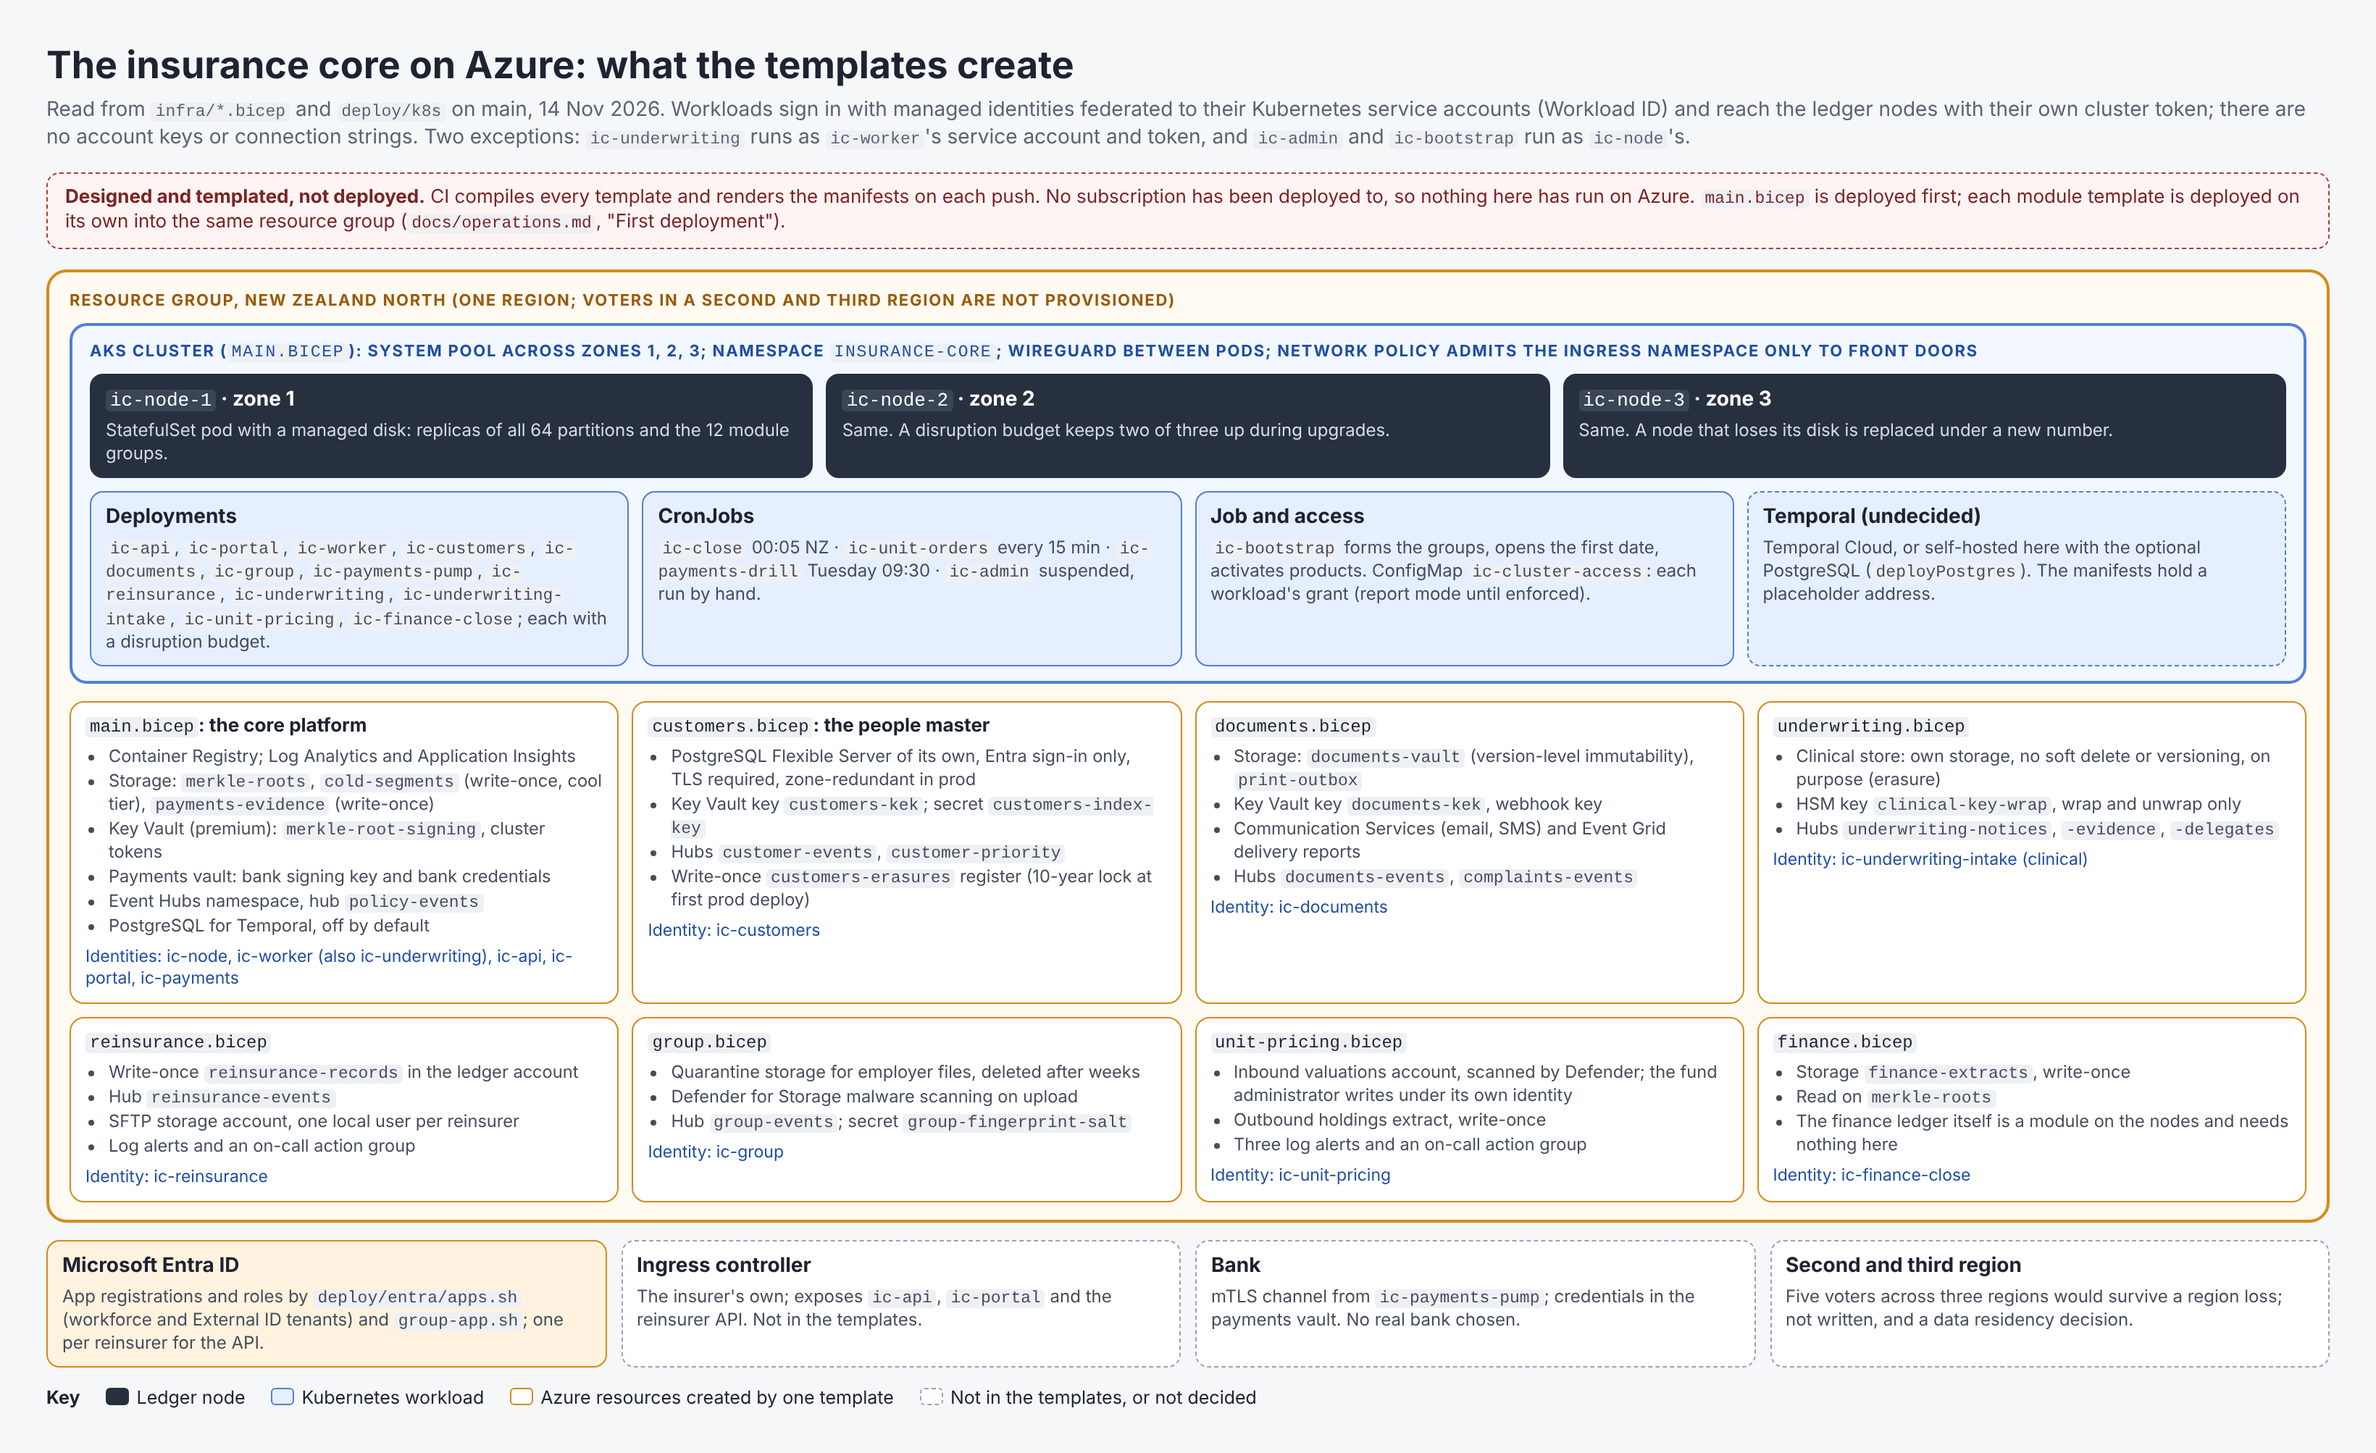
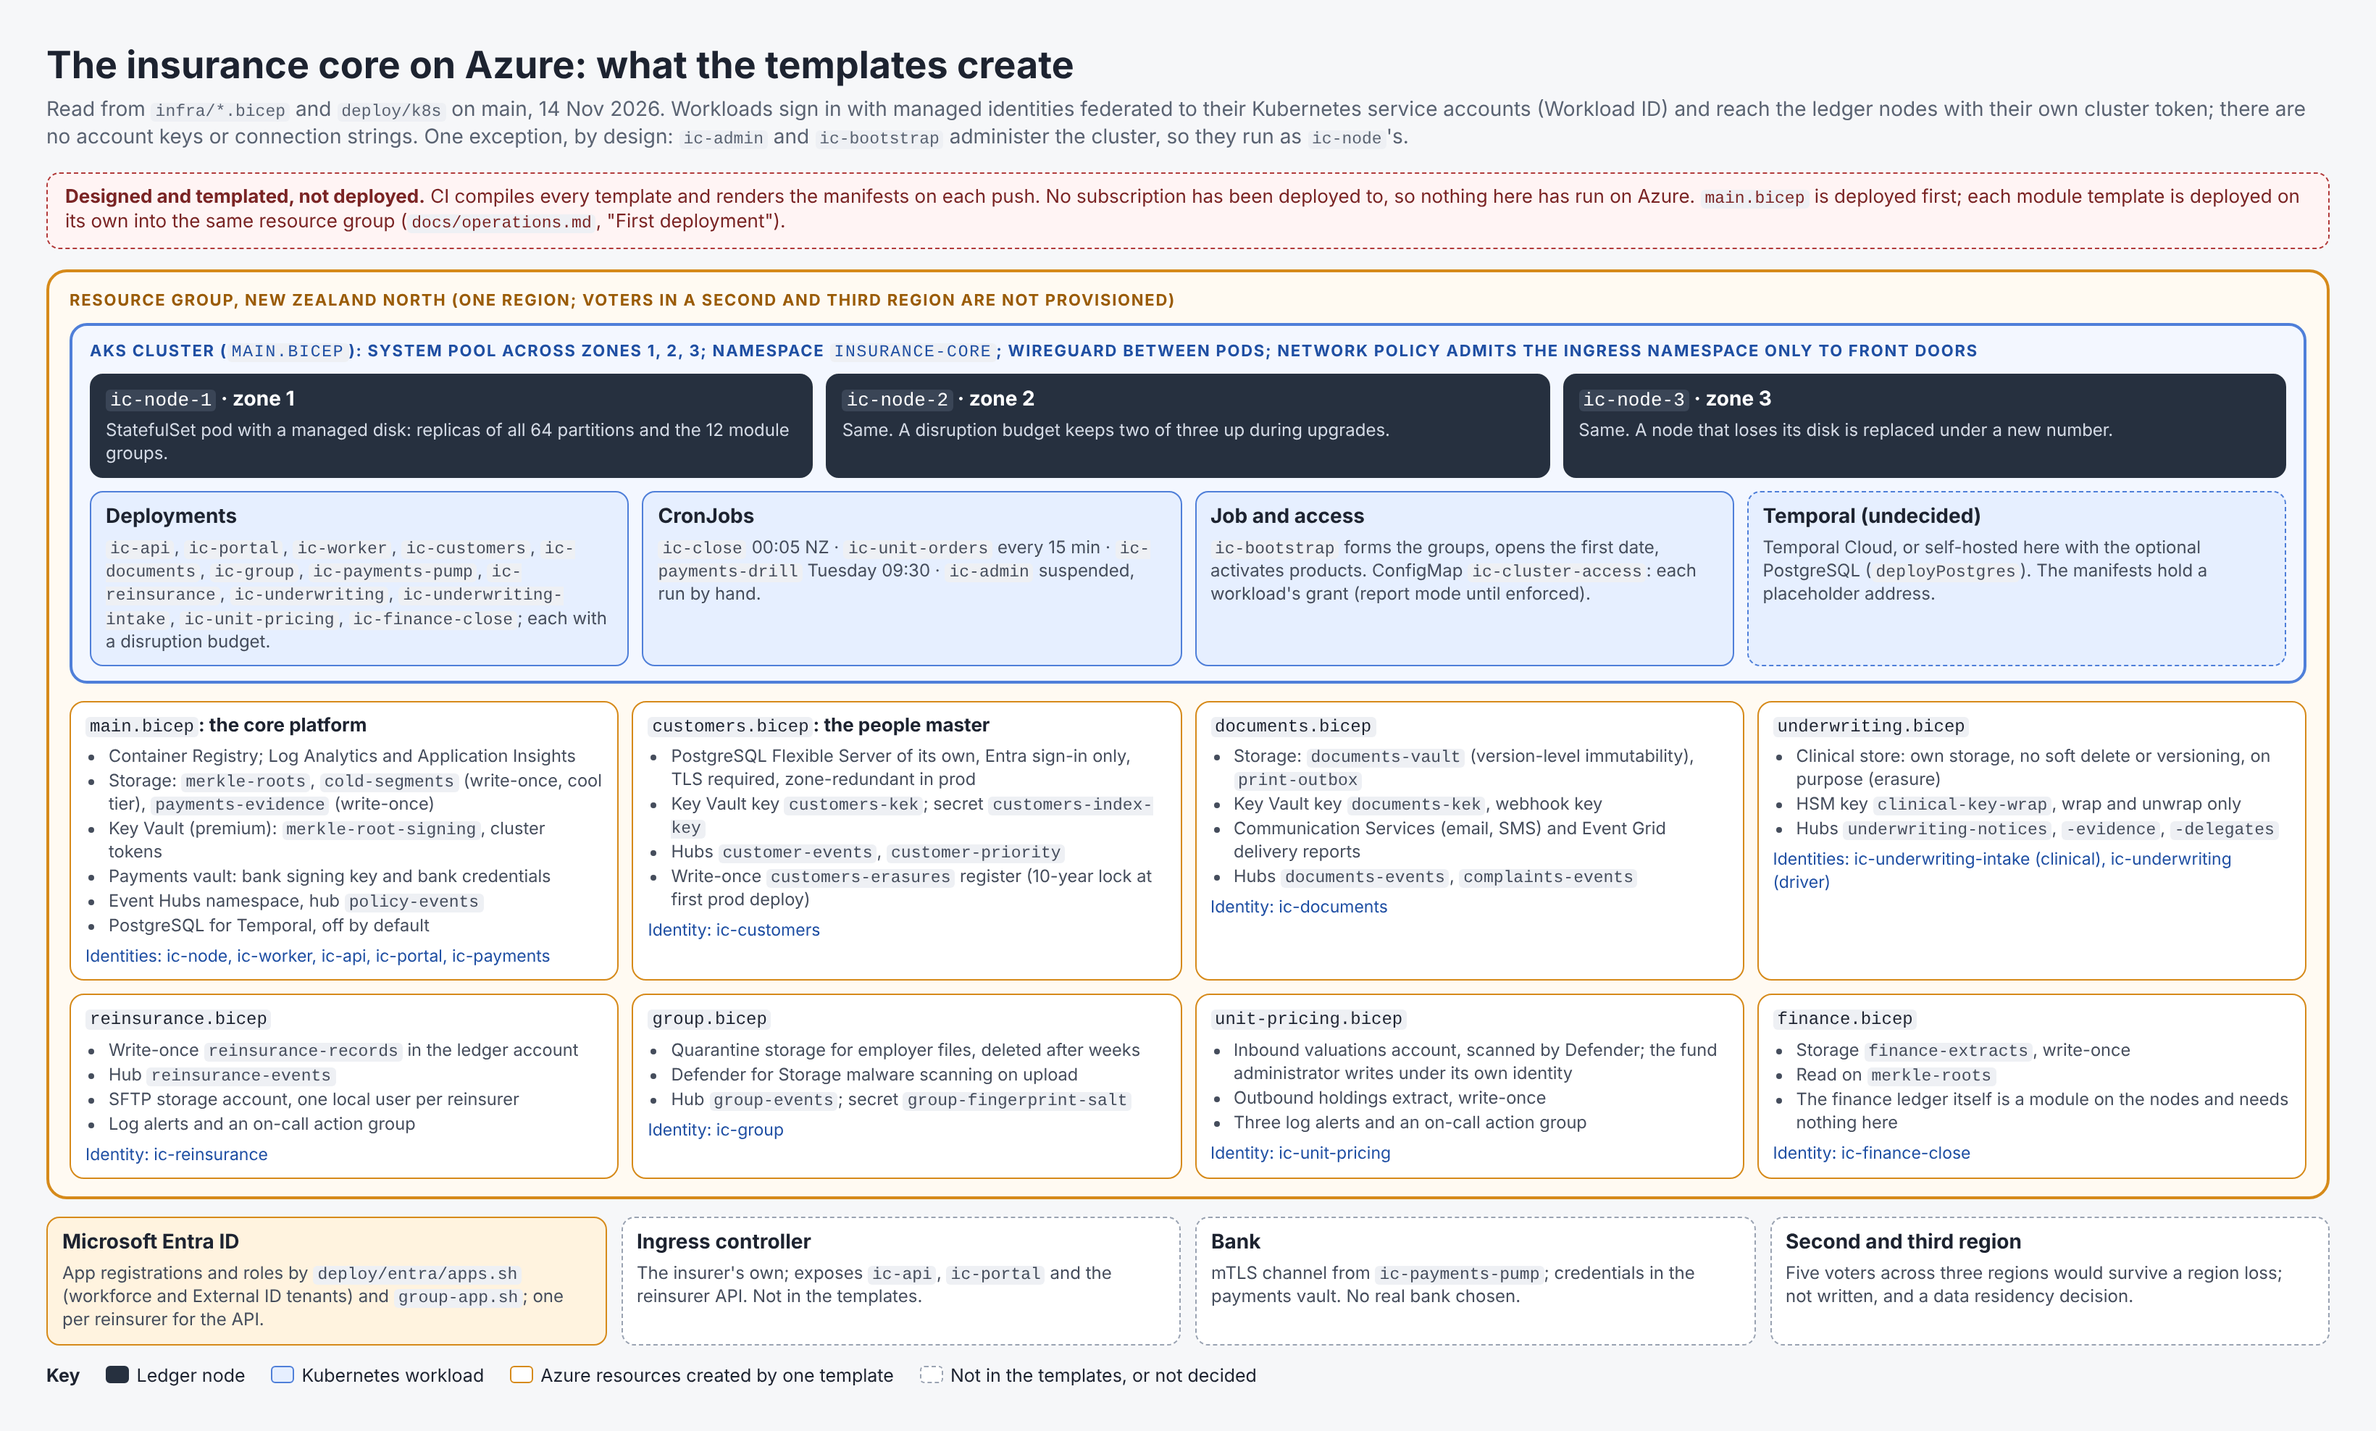
Underwriting driver: its own identity, cluster token and grant
The driver ran on ic-worker's service account and token, so the nodes held
its calls to the worker's grant and logged them under the worker's name.
It now has its own service account, managed identity (infra/underwriting.bicep,
federated to ic-underwriting), Key Vault secret cluster-token-ic-underwriting
readable by that identity alone, and grant. The Event Hubs send rights on
the underwriting hubs move from the worker's identity to it. The worker's
grant is trimmed to what ic-worker sends: end-of-day, leader, unit-orders.

A test fails the build if a token in deploy/k8s has no grant, a grant has
no token, or a pod mounts another workload's token.

Claude-Session: https://claude.ai/code/session_01X1STTeDAbWFpDPHGdVHVUC

Changed region(s): [[0.0, 0.0309, 0.9951, 0.957], [0.2799, 0.957, 0.311, 0.9879]]

diff --git a/docs/architecture/azure-deployment.html b/docs/architecture/azure-deployment.html
@@ -25,7 +25,7 @@ code{font:11.5px ui-monospace,Menlo,monospace;background:#eef0f4;padding:0 3px;b
 .zones{display:flex;gap:9px;margin-bottom:9px}
 </style></head><body><div class="page">
 <h1>The insurance core on Azure: what the templates create</h1>
-<p class="sub">Read from <code>infra/*.bicep</code> and <code>deploy/k8s</code> on main, 14 Nov 2026. Workloads sign in with managed identities federated to their Kubernetes service accounts (Workload ID) and reach the ledger nodes with their own cluster token; there are no account keys or connection strings. Two exceptions: <code>ic-underwriting</code> runs as <code>ic-worker</code>'s service account and token, and <code>ic-admin</code> and <code>ic-bootstrap</code> run as <code>ic-node</code>'s.</p>
+<p class="sub">Read from <code>infra/*.bicep</code> and <code>deploy/k8s</code> on main, 14 Nov 2026. Workloads sign in with managed identities federated to their Kubernetes service accounts (Workload ID) and reach the ledger nodes with their own cluster token; there are no account keys or connection strings. One exception, by design: <code>ic-admin</code> and <code>ic-bootstrap</code> administer the cluster, so they run as <code>ic-node</code>'s.</p>
 <div class="banner"><b>Designed and templated, not deployed.</b> CI compiles every template and renders the manifests on each push. No subscription has been deployed to, so nothing here has run on Azure. <code>main.bicep</code> is deployed first; each module template is deployed on its own into the same resource group (<code>docs/operations.md</code>, "First deployment").</div>
 
 <div class="rg"><div class="bl" style="color:#9a5b05">Resource group, New Zealand North (one region; voters in a second and third region are not provisioned)</div>
@@ -51,7 +51,7 @@ code{font:11.5px ui-monospace,Menlo,monospace;background:#eef0f4;padding:0 3px;b
 <li>Payments vault: bank signing key and bank credentials</li>
 <li>Event Hubs namespace, hub <code>policy-events</code></li>
 <li>PostgreSQL for Temporal, off by default</li></ul>
-<div class="who">Identities: ic-node, ic-worker (also ic-underwriting), ic-api, ic-portal, ic-payments</div></div>
+<div class="who">Identities: ic-node, ic-worker, ic-api, ic-portal, ic-payments</div></div>
 <div class="tpl"><h4><code>customers.bicep</code>: the people master</h4><ul>
 <li>PostgreSQL Flexible Server of its own, Entra sign-in only, TLS required, zone-redundant in prod</li>
 <li>Key Vault key <code>customers-kek</code>; secret <code>customers-index-key</code></li>
@@ -68,7 +68,7 @@ code{font:11.5px ui-monospace,Menlo,monospace;background:#eef0f4;padding:0 3px;b
 <li>Clinical store: own storage, no soft delete or versioning, on purpose (erasure)</li>
 <li>HSM key <code>clinical-key-wrap</code>, wrap and unwrap only</li>
 <li>Hubs <code>underwriting-notices</code>, <code>-evidence</code>, <code>-delegates</code></li></ul>
-<div class="who">Identity: ic-underwriting-intake (clinical)</div></div>
+<div class="who">Identities: ic-underwriting-intake (clinical), ic-underwriting (driver)</div></div>
 <div class="tpl"><h4><code>reinsurance.bicep</code></h4><ul>
 <li>Write-once <code>reinsurance-records</code> in the ledger account</li>
 <li>Hub <code>reinsurance-events</code></li>

diff --git a/crates/raft/tests/access.rs b/crates/raft/tests/access.rs
@@ -356,3 +356,64 @@ fn the_shipped_grants_make_a_map_the_nodes_accept() {
         assert!(access.decide(&Who::Workload(name.clone()), &Ask::Raft, None).is_err(), "{name} may reach Raft");
     }
 }
+
+/// Purpose: every cluster token in `deploy/k8s` belongs to a workload with a grant in
+/// `grants.json`, every grant has its token there, and a token is mounted only by the
+/// workload it is named for, apart from the pods listed here that are the same workload by
+/// design (the worker's scheduled runs; the payments pump and its drill; the admin pod and bootstrap job, which administer the
+/// cluster with the nodes' token).
+/// Why it matters: a process that borrows another's token is held to the other's grant and
+/// logged under its name, so its calls cannot be told apart or limited. The underwriting
+/// driver once ran on the worker's token that way; this stops the next one.
+#[test]
+fn every_process_calling_the_nodes_has_its_own_token_and_grant() {
+    const SAME_WORKLOAD: [(&str, &str); 5] = [
+        ("ic-close", "ic-worker"),
+        ("ic-payments-pump", "ic-payments"),
+        ("ic-unit-orders", "ic-worker"),
+        ("ic-payments-drill", "ic-payments"),
+        ("ic-bootstrap", "ic-node"),
+    ];
+    let root = concat!(env!("CARGO_MANIFEST_DIR"), "/../../deploy");
+    let grants: Value = serde_json::from_str(&std::fs::read_to_string(format!("{root}/cluster-access/grants.json")).unwrap()).unwrap();
+    let granted: Vec<String> = grants["workloads"].as_object().unwrap().keys().cloned().collect();
+    let value = |line: &str, key: &str| line.trim().strip_prefix(key).map(|v| v.trim().to_string());
+
+    // Each SecretProviderClass and the cluster token it carries; then each pod's app and the classes it mounts.
+    let mut token_of: BTreeMap<String, String> = BTreeMap::new();
+    let mut pods: Vec<(String, Vec<String>)> = Vec::new();
+    let mut files: Vec<_> = std::fs::read_dir(format!("{root}/k8s")).unwrap().map(|e| e.unwrap().path()).collect();
+    files.sort();
+    for file in files.iter().filter(|p| p.extension().is_some_and(|e| e == "yaml")) {
+        for doc in std::fs::read_to_string(file).unwrap().split("\n---") {
+            let lines: Vec<&str> = doc.lines().collect();
+            let kind = lines.iter().find_map(|l| l.strip_prefix("kind: ")).unwrap_or_default();
+            if kind == "SecretProviderClass" {
+                let name = lines.iter().find_map(|l| value(l, "name:")).unwrap();
+                if let Some(token) = lines.iter().find_map(|l| value(l, "objectName: cluster-token-")) {
+                    assert!(token_of.insert(name.clone(), token).is_none(), "{name} is defined twice");
+                }
+            } else if ["Deployment", "StatefulSet", "CronJob", "Job"].contains(&kind) {
+                let app = lines.iter().find_map(|l| value(l, "app:")).unwrap();
+                let mounts = lines.iter().filter_map(|l| value(l, "secretProviderClass:")).collect();
+                pods.push((app, mounts));
+            }
+        }
+    }
+
+    let mut tokens: Vec<&String> = token_of.values().collect();
+    tokens.sort();
+    let mut expected: Vec<&String> = granted.iter().collect();
+    expected.sort();
+    assert_eq!(tokens, expected, "the tokens in deploy/k8s and the grants differ");
+
+    for (app, mounts) in &pods {
+        let owner = SAME_WORKLOAD.iter().find(|(a, _)| a == app).map_or(app.as_str(), |(_, w)| w);
+        for class in mounts {
+            if let Some(token) = token_of.get(class) {
+                assert_eq!(token, owner, "{app} mounts the cluster token of {token}");
+            }
+        }
+    }
+    assert!(pods.iter().any(|(app, _)| app == "ic-underwriting"), "the underwriting driver is in deploy/k8s");
+}

diff --git a/docs/operations.md b/docs/operations.md
@@ -88,7 +88,7 @@
     az deployment group show -g <rg> -n underwriting --query properties.outputs
     ```
 
-    It creates the clinical store (its own storage account with no soft delete or versioning, deliberately), the HSM wrapping key, the intake's identity, and the `underwriting-notices`, `underwriting-evidence` and `underwriting-delegates` hubs with the workers' right to send to them. Register an app for the intake with the app roles `new-business`, `underwriting-console`, `evidence` and `delegate-api`, and put its application ID URI and the outputs in `deploy/k8s/underwriting-intake.yaml`. The driver reads `IC_EVENT_HUBS_ENDPOINT` from `settings.yaml`.
+    It creates the clinical store (its own storage account with no soft delete or versioning, deliberately), the HSM wrapping key, the intake's identity, the driver's own identity (which may read only `cluster-token-ic-underwriting`), and the `underwriting-notices`, `underwriting-evidence` and `underwriting-delegates` hubs with the driver's right to send to them. Register an app for the intake with the app roles `new-business`, `underwriting-console`, `evidence` and `delegate-api`, and put its application ID URI and the outputs in `deploy/k8s/underwriting-intake.yaml`. Put `underwritingDriverIdentityClientId` in `deploy/k8s/underwriting.yaml`. The driver reads `IC_EVENT_HUBS_ENDPOINT` from `settings.yaml`.
 
 11. **Apply the insurer's own configuration.** The shipped products are active after step 6; what each module needs before the first day is the insurer's to decide and is kept in one set-up file: finance's ledger shape, chart and close configuration, the claims rules and authority book, the banks, channels and routes of payments, the complaints timers, the unit pricing partition count. `ic-admin apply <setup.json>` sends it, from the admin pod (`deploy/k8s/admin.yaml`) or a job:
 
@@ -175,7 +175,7 @@ Azure managed disks are replicated three times within their zone, so this is a r
 
 ## Cluster access
 
-Every caller of a ledger node presents its own token: the secret `cluster-token-<workload>` in Key Vault, mounted only into that workload's pods. The nodes read the access map (`IC_CLUSTER_ACCESS_FILE`, the ConfigMap `ic-cluster-access`) and hold each workload to its grant: the caller names it may put on a core command, the modules it may write and read, whether it may read the partitions, and whether it may administer the cluster. Only the nodes themselves are peers, reaching Raft and everything else. The map holds the tokens' SHA-256 digests, not the tokens. The code is `crates/raft/src/access.rs`; the grants are `deploy/cluster-access/grants.json`. One workload has no grant of its own: the underwriting driver `ic-underwriting` runs under `ic-worker`'s service account, identity and token (`deploy/k8s/underwriting.yaml`), so its calls are held to `ic-worker`'s grant and logged under that name.
+Every caller of a ledger node presents its own token: the secret `cluster-token-<workload>` in Key Vault, mounted only into that workload's pods. The nodes read the access map (`IC_CLUSTER_ACCESS_FILE`, the ConfigMap `ic-cluster-access`) and hold each workload to its grant: the caller names it may put on a core command, the modules it may write and read, whether it may read the partitions, and whether it may administer the cluster. Only the nodes themselves are peers, reaching Raft and everything else. The map holds the tokens' SHA-256 digests, not the tokens. The code is `crates/raft/src/access.rs`; the grants are `deploy/cluster-access/grants.json`. Every process that calls the nodes has its own service account, identity, token and grant; no two share one. The admin pod and the bootstrap job are the exception by design: they administer the cluster, so they use the nodes' own token. A test (`crates/raft/tests/access.rs`) fails the build if a token in `deploy/k8s` has no grant, a grant has no token, or one token is mounted by two workloads.
 
 The nodes read the map again every 30 seconds; a map that does not parse is logged and the last good one stays. A node does not start if its map is unreadable or its own token is not a peer in it.
 

diff --git a/docs/underwriting.md b/docs/underwriting.md
@@ -66,7 +66,7 @@ A receiver's refusal that means "already done" or "no longer wanted" is counted 
 
 Once a day the driver sends `Sweep` as caller `timer`, a page at a time, under keys of the day and the page start. After the sweep it asks the collections module for `reinstatements_for_underwriting` (the lapsed policies whose reinstatement the core refused with `underwriting_required`), reads each policy from the core (on the partition collections names, or by asking each partition), and opens `reinstatement_proposal` for it as caller `collections` under key `collections:{proposal}`. A policy already opened is not opened again; one no longer lapsed is reported in the sweep's result and skipped; and when collections cannot be asked, the sweep still stands and the next day's tries again.
 
-Settings: `IC_NODES` and `IC_EVENT_HUBS_ENDPOINT` (required), the cluster token as for every worker, the workers' Azure identity, `IC_UNDERWRITING_EVENT_HUB` (`underwriting-notices`), `IC_UNDERWRITING_CYCLE_MS` (2000), `IC_UNDERWRITING_PATIENCE_MS` (10000), `IC_UNDERWRITING_BATCH` (100), `IC_UNDERWRITING_SWEEP_PAGE` (200).
+Settings: `IC_NODES` and `IC_EVENT_HUBS_ENDPOINT` (required), its own cluster token (`cluster-token-ic-underwriting`, held to the `ic-underwriting` grant in `deploy/cluster-access/grants.json`), its own Azure identity (`infra/underwriting.bicep`),  `IC_UNDERWRITING_EVENT_HUB` (`underwriting-notices`), `IC_UNDERWRITING_CYCLE_MS` (2000), `IC_UNDERWRITING_PATIENCE_MS` (10000), `IC_UNDERWRITING_BATCH` (100), `IC_UNDERWRITING_SWEEP_PAGE` (200).
 
 ## Takeover terms and reinsurance's reference on a scheme member's excess
 
